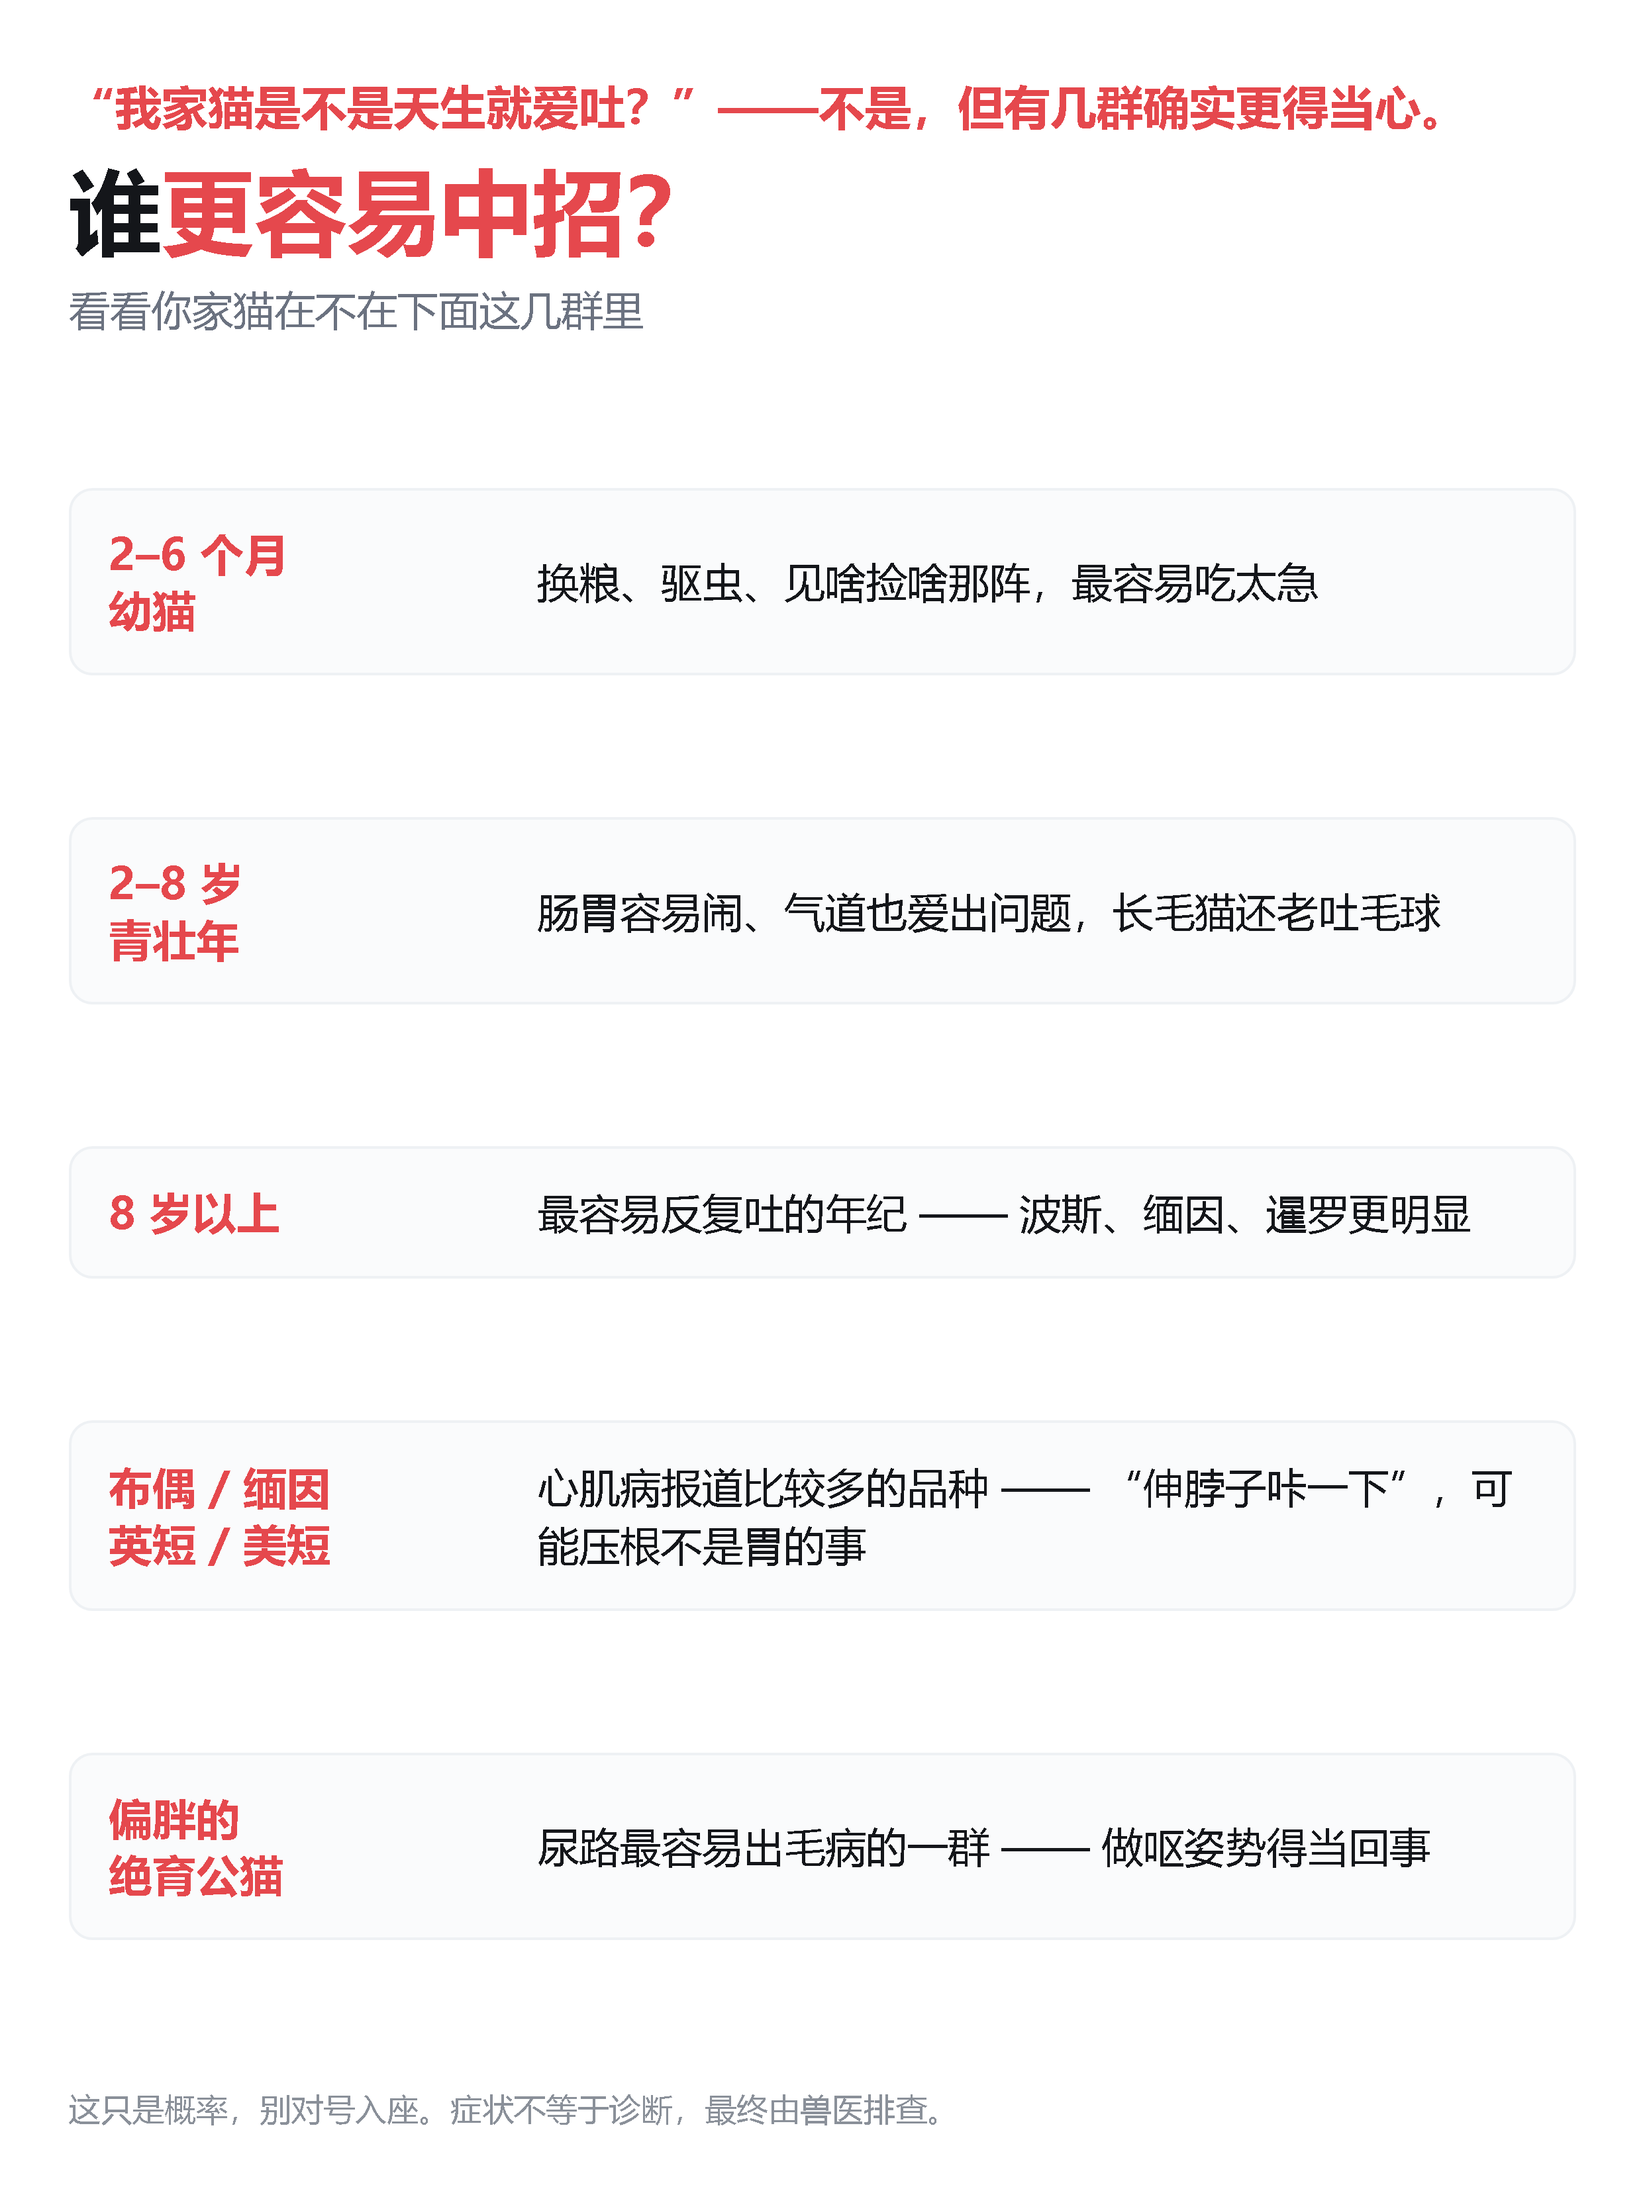
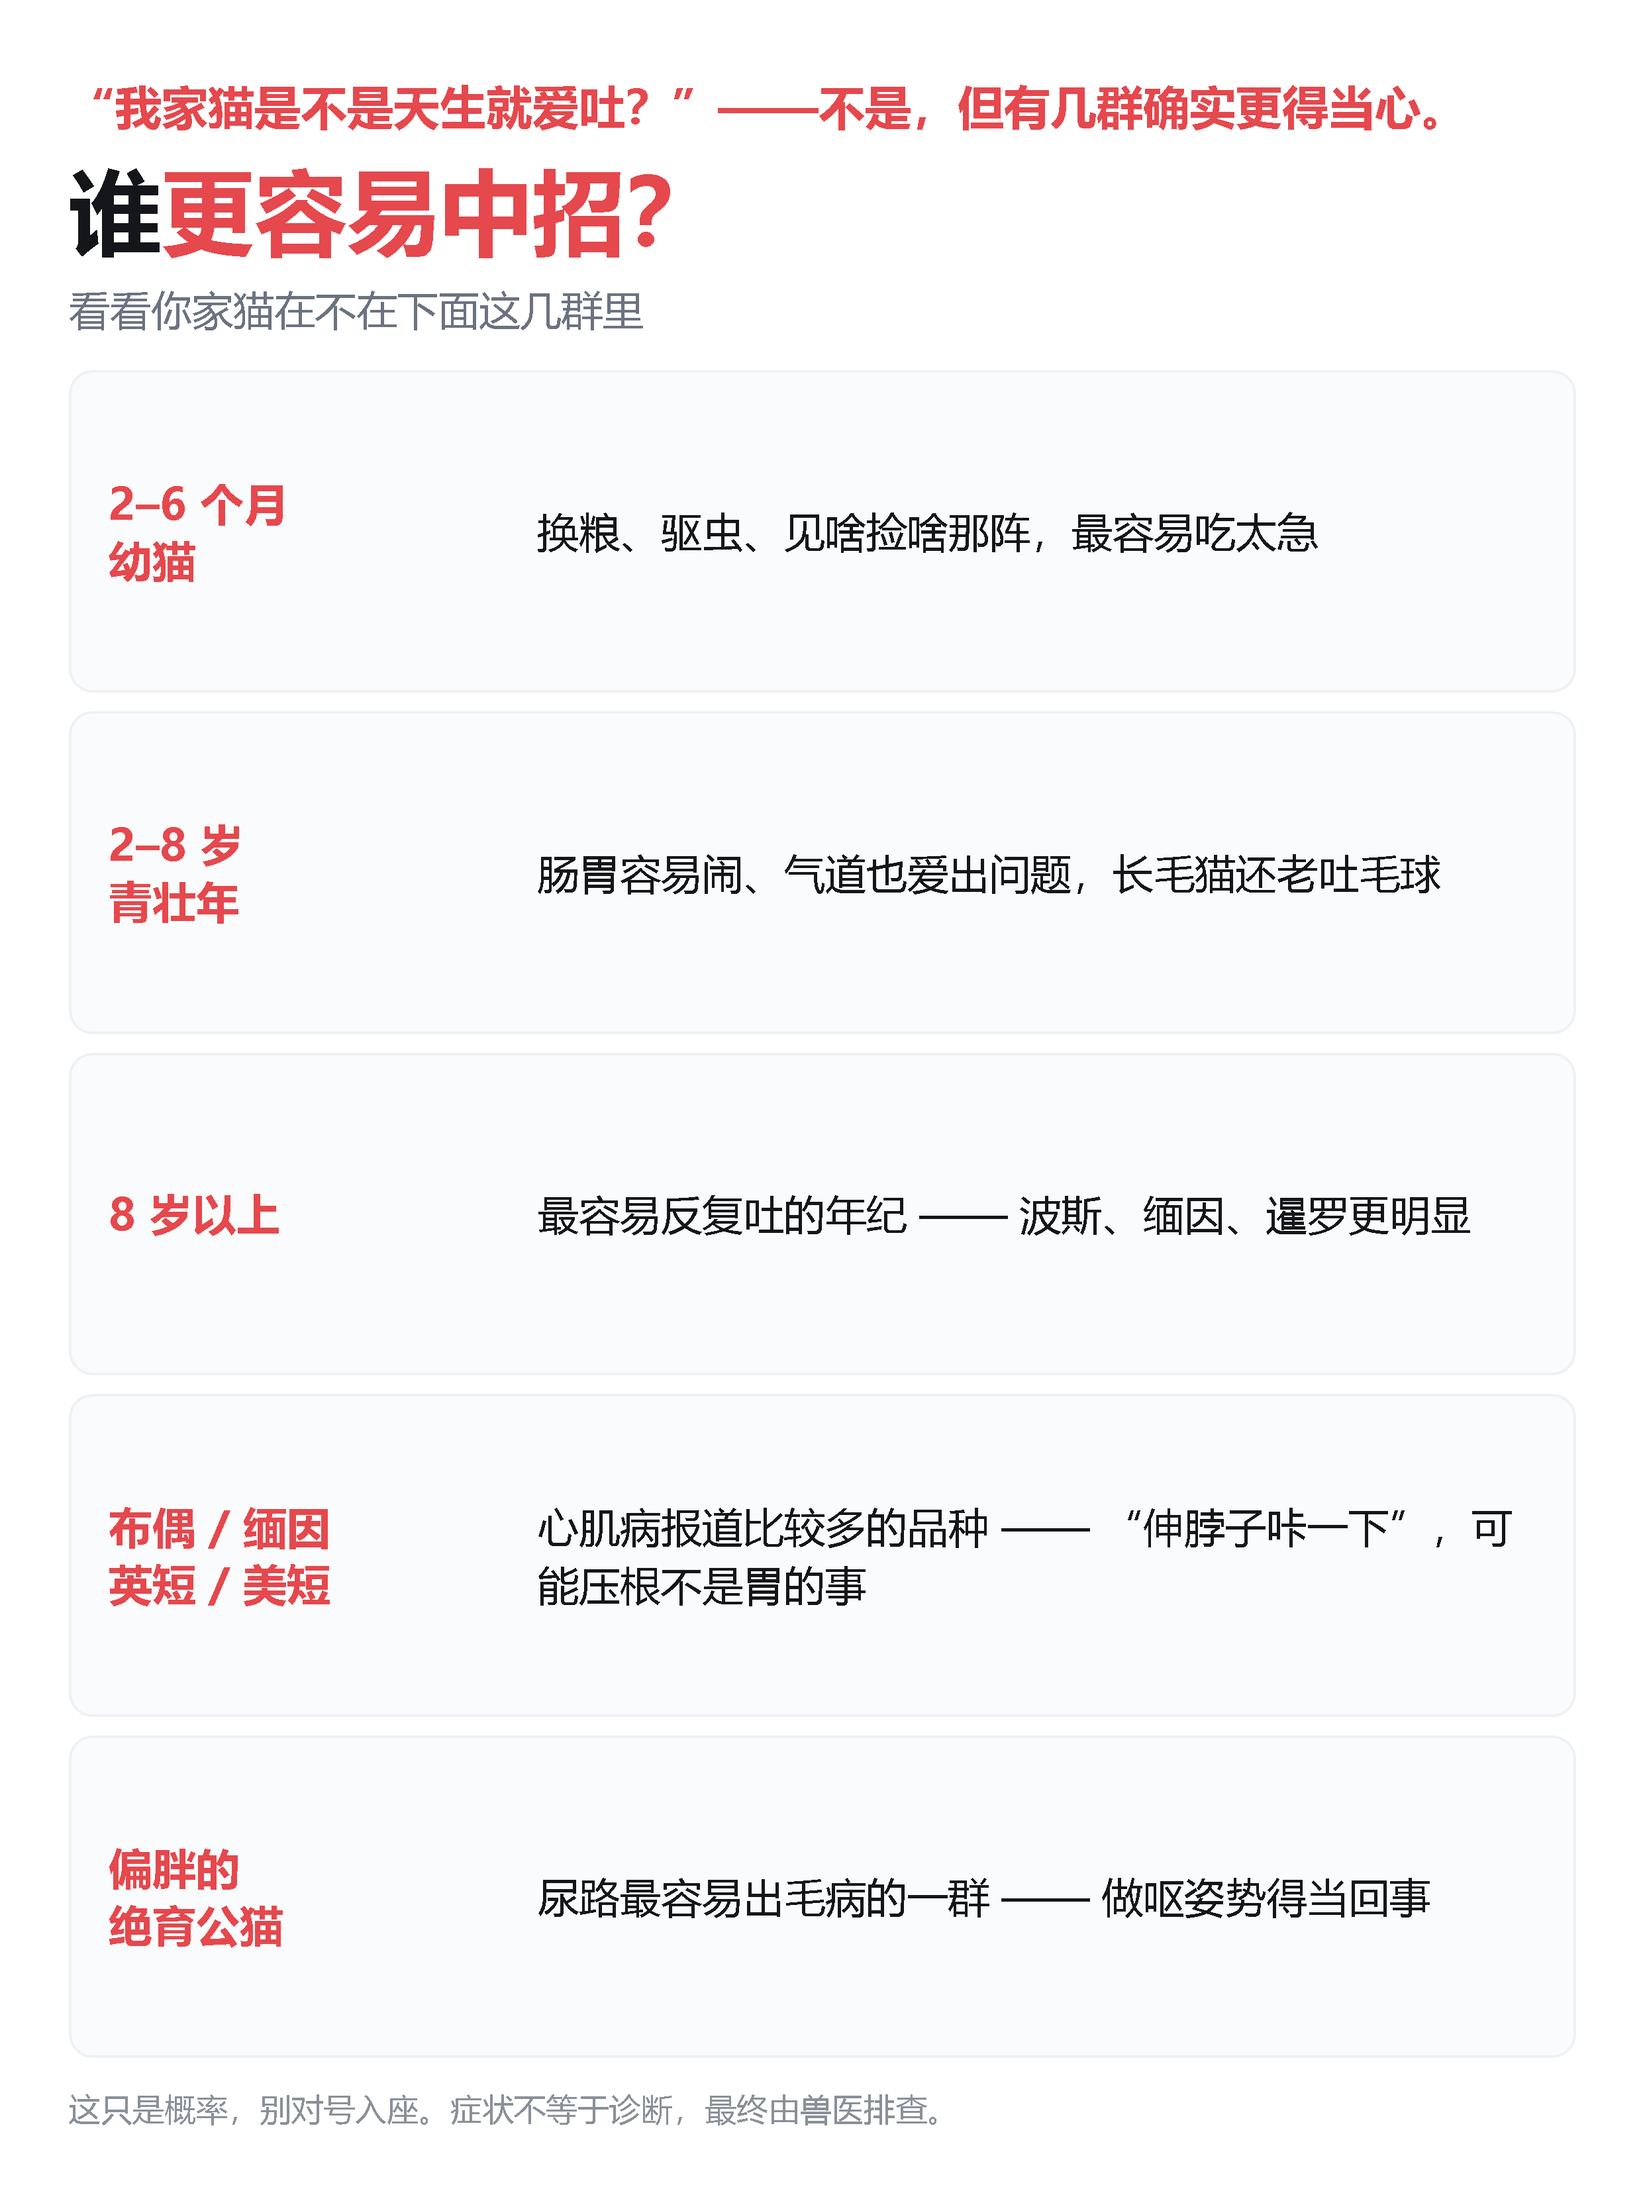
二期图改回卡片撑满：修正上一版 space-evenly 把卡片拉开造成的分散

diff --git a/40-产出/主题/猫病症自查百科/成果物/01-吐了/定稿/二期/二期4-先做这一件事.html b/40-产出/主题/猫病症自查百科/成果物/01-吐了/定稿/二期/二期4-先做这一件事.html
@@ -15,8 +15,8 @@
   h1 { font-size:60px; font-weight:900; line-height:1.18; margin-top:12px; }
   h1 em { font-style:normal; color:#e5484d; }
   .sub { font-size:31px; color:#6b7280; margin-top:14px; }
-  .cards { margin-top:28px; flex:1; display:flex; flex-direction:column; gap:22px; justify-content:space-evenly; }
-  .card { border-radius:20px; border:2px solid #dcecdf; background:#f4faf6; padding:36px 40px; display:flex; align-items:center; gap:28px; }
+  .cards { margin-top:28px; flex:1; display:flex; flex-direction:column; gap:18px; }
+  .card { flex:1; border-radius:20px; border:2px solid #dcecdf; background:#f4faf6; padding:30px 36px; display:flex; align-items:center; gap:28px; }
   .no { flex:0 0 76px; height:76px; border-radius:50%; background:#2e9e5b; color:#fff; font-size:40px; font-weight:900; display:flex; align-items:center; justify-content:center; }
   .body { flex:1; }
   .t { font-size:36px; font-weight:800; line-height:1.3; }

diff --git a/40-产出/主题/猫病症自查百科/成果物/01-吐了/定稿/二期/二期3-一周吐几次.html b/40-产出/主题/猫病症自查百科/成果物/01-吐了/定稿/二期/二期3-一周吐几次.html
@@ -15,8 +15,8 @@
   h1 { font-size:60px; font-weight:900; line-height:1.18; margin-top:12px; }
   h1 em { font-style:normal; color:#e5484d; }
   .sub { font-size:31px; color:#6b7280; margin-top:14px; }
-  .cards { margin-top:28px; flex:1; display:flex; flex-direction:column; gap:22px; justify-content:space-evenly; }
-  .card { border-radius:20px; border:2px solid; padding:36px 40px; display:flex; flex-direction:column; justify-content:center; }
+  .cards { margin-top:28px; flex:1; display:flex; flex-direction:column; gap:18px; }
+  .card { flex:1; border-radius:20px; border:2px solid; padding:30px 36px; display:flex; flex-direction:column; justify-content:center; }
   .card .freq { font-size:46px; font-weight:900; }
   .card .say { font-size:33px; font-weight:700; margin-top:12px; line-height:1.38; }
   .card .why { font-size:28px; color:#5b636c; margin-top:10px; line-height:1.45; }

diff --git a/40-产出/主题/猫病症自查百科/成果物/01-吐了/定稿/二期/二期1-谁更容易中招.html b/40-产出/主题/猫病症自查百科/成果物/01-吐了/定稿/二期/二期1-谁更容易中招.html
@@ -16,10 +16,10 @@
   h1 { font-size:70px; font-weight:900; line-height:1.18; margin-top:12px; }
   h1 em { font-style:normal; color:#e5484d; }
   .sub { font-size:31px; color:#6b7280; margin-top:14px; }
-  .rows { margin-top:26px; flex:1; display:flex; flex-direction:column; gap:18px; justify-content:space-evenly; }
+  .rows { margin-top:26px; flex:1; display:flex; flex-direction:column; gap:14px; }
   .row {
-    display:flex; align-items:center; gap:24px;
-    border:2px solid #eef1f4; border-radius:18px; background:#fafbfc; padding:26px 28px;
+    flex:1; display:flex; align-items:center; gap:24px;
+    border:2px solid #eef1f4; border-radius:18px; background:#fafbfc; padding:14px 28px;
   }
   .who { flex:0 0 300px; font-size:33px; font-weight:800; color:#e5484d; line-height:1.3; }
   .desc { flex:1; font-size:31px; line-height:1.42; }

diff --git a/40-产出/主题/猫病症自查百科/成果物/01-吐了/定稿/二期/二期5-你管它叫什么.html b/40-产出/主题/猫病症自查百科/成果物/01-吐了/定稿/二期/二期5-你管它叫什么.html
@@ -15,8 +15,8 @@
   h1 { font-size:68px; font-weight:900; line-height:1.18; margin-top:20px; }
   h1 em { font-style:normal; color:#e5484d; }
   .sub { font-size:33px; color:#4a5159; margin-top:20px; line-height:1.5; }
-  .groups { margin-top:44px; flex:1; display:flex; flex-direction:column; gap:44px; justify-content:space-evenly; }
-  .grp { display:flex; flex-direction:column; gap:18px; }
+  .groups { margin-top:34px; flex:1; display:flex; flex-direction:column; gap:24px; }
+  .grp { flex:1; display:flex; flex-direction:column; gap:16px; justify-content:center; }
   .gl { font-size:29px; font-weight:800; color:#8a9099; }
   .chips { display:flex; flex-wrap:wrap; gap:14px; }
   .chip { font-size:34px; font-weight:700; border-radius:14px; padding:18px 30px; }
